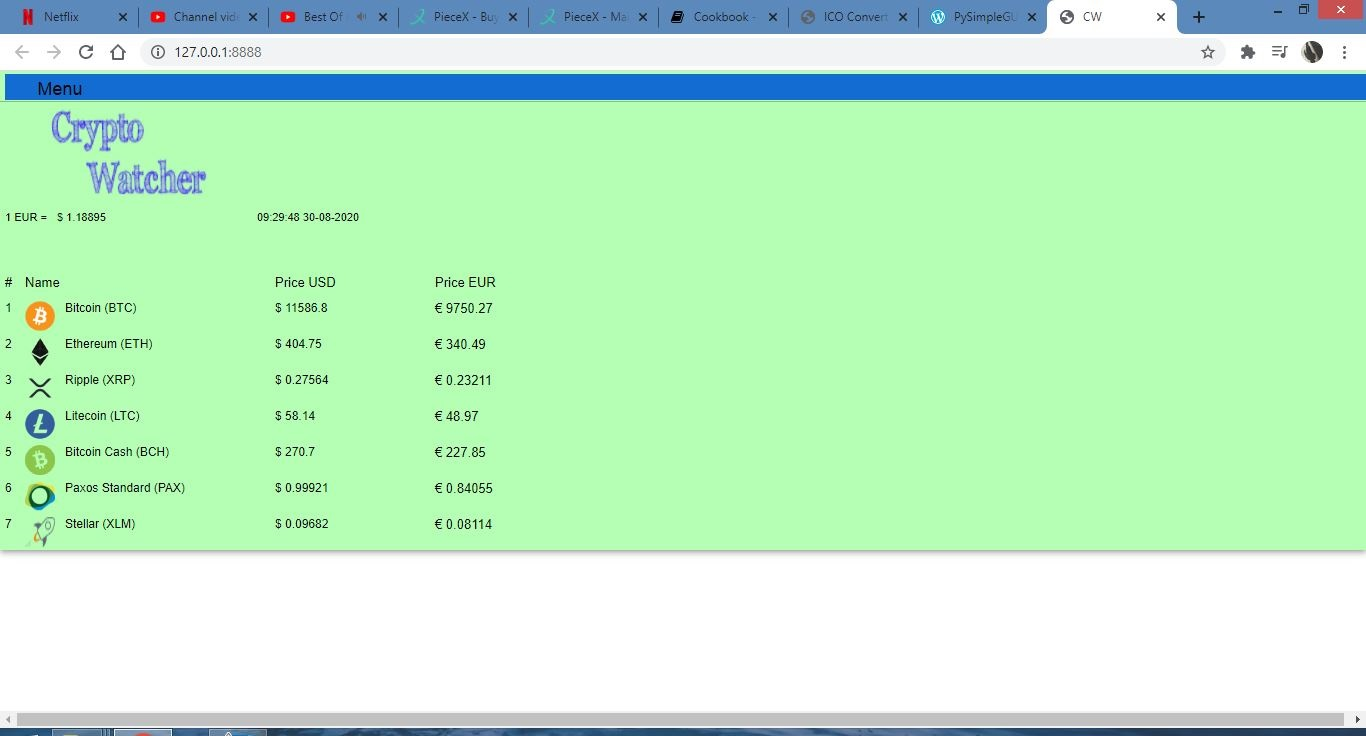
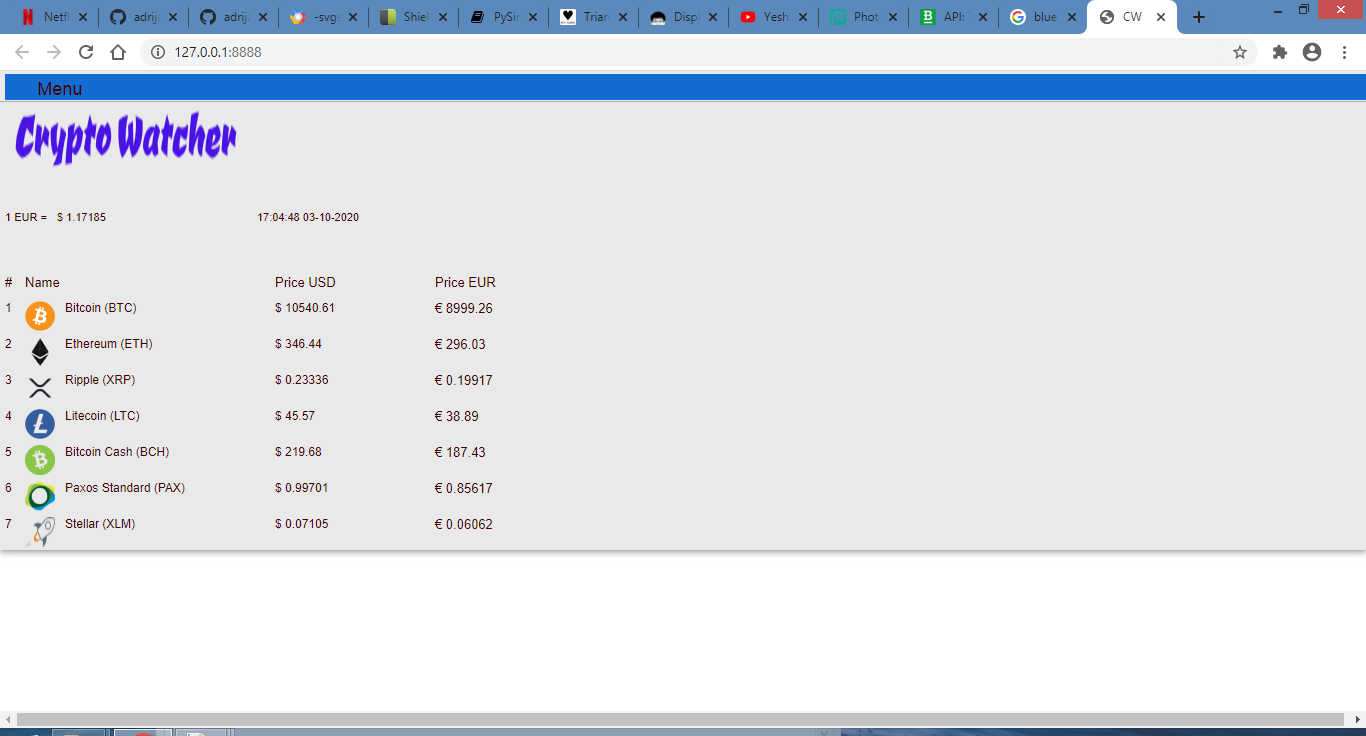
Add files via upload

diff --git a/cw.py b/cw.py
@@ -211,37 +211,47 @@ def create_main_window(settings):
     right_click_menu = ['Unused', ['Settings', 'E&xit']]
     
     layout =   [[sg.Menu(menu_def)],
-                [sg.Image('png/cw.png', size=(250, 100))],
-                [sg.Text('1 EUR  =', font=('Helvetica', 11)), sg.Text('', size=(19,1), font=('Helvetica', 11), key='es'),
+                [sg.Image('png/cw.png', size=(500, 100))],
+                [sg.Text('1 EUR  =', font=('Helvetica', 11)), sg.Text('', size=(8,1), font=('Helvetica', 11), key='es'),
                  sg.Text('', size=(15,1), font=('Helvetica', 11), key='_DATE_'),
                  sg.Button('', key='paypal', size=(12,1), font=('Helvetica', 9), button_color=(sg.theme_background_color(), sg.theme_background_color()),
-                           image_filename='png/paypal.png', image_size=(80, 50), image_subsample=2, border_width=0)],
+                           image_filename='png/paypal.png', image_size=(80, 50), image_subsample=2, border_width=0),
+                 sg.Button('', key='bitcoin', size=(12,1), font=('Helvetica', 9), button_color=(sg.theme_background_color(), sg.theme_background_color()),
+                           image_filename='png/bitcoin.png', image_size=(80, 60), image_subsample=2, border_width=0)],
+                
                 [sg.Text('')],
-                [sg.Text('# ', font=('Helvetica', 13), size=(1,1)), sg.Text('Name', font=('Helvetica', 13), size=(24,1)),
-                 sg.Text(' Price USD', size=(15,1), font=('Helvetica', 13)), sg.Text(' Price EUR', size=(10,1), font=('Helvetica', 13))],
-                [sg.Text('1 ', font=('Helvetica', 12), size=(1,1)), sg.Image('png/bit.png', size=(30, 30)),
-                 sg.Text('Bitcoin (BTC)', font=('Helvetica', 12), size=(20,1)), sg.Text('', size=(15,1), font=('Helvetica', 12),  key='coin'),
-                 sg.Text('', size=(10,1), font=('Helvetica', 13),  key='btceu')],
-                [sg.Text('2 ', font=('Helvetica', 12), size=(1,1)), sg.Image('png/eth.png', size=(30, 30)),
-                 sg.Text('Ethereum (ETH)', font=('Helvetica', 12), size=(20,1)), sg.Text('', size=(15,1), font=('Helvetica', 12),  key='ethe'),
-                 sg.Text('', size=(10,1), font=('Helvetica', 13),  key='eteuro')],
-                [sg.Text('3 ', font=('Helvetica', 12), size=(1,1)), sg.Image('png/xrp.png', size=(30, 30)),
-                 sg.Text('Ripple (XRP)', font=('Helvetica', 12), size=(20,1)), sg.Text('', size=(15,1), font=('Helvetica', 12),  key='xrp'),
-                 sg.Text('', size=(10,1), font=('Helvetica', 13),  key='xrpeu')],
-                [sg.Text('4 ', font=('Helvetica', 12), size=(1,1)), sg.Image('png/lite.png', size=(30, 30)),
-                 sg.Text('Litecoin (LTC)', font=('Helvetica', 12), size=(20,1)), sg.Text('', size=(15,1), font=('Helvetica', 12),  key='ltcusd'),
-                 sg.Text('', size=(10,1), font=('Helvetica', 13),  key='ltceur')],
-                [sg.Text('5 ', font=('Helvetica', 12), size=(1,1)), sg.Image('png/bch.png', size=(30, 30)),
-                 sg.Text('Bitcoin Cash (BCH)', font=('Helvetica', 12), size=(20,1)), sg.Text('', size=(15,1), font=('Helvetica', 12),  key='bcusd'),
-                 sg.Text('', size=(10,1), font=('Helvetica', 13),  key='bceur')],
-                [sg.Text('6 ', font=('Helvetica', 12), size=(1,1)), sg.Image('png/pax.png', size=(30, 30)),
-                 sg.Text('Paxos Standard (PAX)', font=('Helvetica', 12), size=(20,1)), sg.Text('', size=(15,1), font=('Helvetica', 12),  key='paxu'),
-                 sg.Text('', size=(10,1), font=('Helvetica', 13),  key='paxe')],
-                [sg.Text('7 ', font=('Helvetica', 12), size=(1,1)), sg.Image('png/stellar.png', size=(30, 30)),
-                 sg.Text('Stellar (XLM)', font=('Helvetica', 12), size=(20,1)), sg.Text('', size=(15,1), font=('Helvetica', 12),  key='xlmu'),
-                 sg.Text('', size=(10,1), font=('Helvetica', 13),  key='xlme')]]
+                [sg.Text('#', font=('Helvetica', 11, 'bold'), size=(1,1)), sg.Text('Name', font=('Helvetica', 11, 'bold'), size=(24,1)),
+                 sg.Text(' Price USD', size=(15,1), font=('Helvetica', 11, 'bold')), sg.Text(' Price EUR', size=(10,1), font=('Helvetica', 11, 'bold'))],
+                
+                [sg.Text('1', font=('Helvetica', 11, 'bold'), size=(1,1)), sg.Image('png/bit.png', size=(30, 30)),
+                 sg.Text('Bitcoin (BTC)', font=('Helvetica', 12), size=(20,1)), sg.Text('', size=(15,1), font=('Helvetica', 11),  key='coin'),
+                 sg.Text('', size=(10,1), font=('Helvetica', 11),  key='btceu')],
+                
+                [sg.Text('2', font=('Helvetica', 11, 'bold'), size=(1,1)), sg.Image('png/eth.png', size=(30, 30)),
+                 sg.Text('Ethereum (ETH)', font=('Helvetica', 12), size=(20,1)), sg.Text('', size=(15,1), font=('Helvetica', 11),  key='ethe'),
+                 sg.Text('', size=(10,1), font=('Helvetica', 11),  key='eteuro')],
+                
+                [sg.Text('3', font=('Helvetica', 11, 'bold'), size=(1,1)), sg.Image('png/xrp.png', size=(30, 30)),
+                 sg.Text('Ripple (XRP)', font=('Helvetica', 12), size=(20,1)), sg.Text('', size=(15,1), font=('Helvetica', 11),  key='xrp'),
+                 sg.Text('', size=(10,1), font=('Helvetica', 11),  key='xrpeu')],
+                
+                [sg.Text('4', font=('Helvetica', 11, 'bold'), size=(1,1)), sg.Image('png/lite.png', size=(30, 30)),
+                 sg.Text('Litecoin (LTC)', font=('Helvetica', 12), size=(20,1)), sg.Text('', size=(15,1), font=('Helvetica', 11),  key='ltcusd'),
+                 sg.Text('', size=(10,1), font=('Helvetica', 11),  key='ltceur')],
+                
+                [sg.Text('5', font=('Helvetica', 11, 'bold'), size=(1,1)), sg.Image('png/bch.png', size=(30, 30)),
+                 sg.Text('Bitcoin Cash (BCH)', font=('Helvetica', 12), size=(20,1)), sg.Text('', size=(15,1), font=('Helvetica', 11),  key='bcusd'),
+                 sg.Text('', size=(10,1), font=('Helvetica', 11),  key='bceur')],
+                
+                [sg.Text('6', font=('Helvetica', 11, 'bold'), size=(1,1)), sg.Image('png/pax.png', size=(30, 30)),
+                 sg.Text('Paxos Standard (PAX)', font=('Helvetica', 12), size=(20,1)), sg.Text('', size=(15,1), font=('Helvetica', 11),  key='paxu'),
+                 sg.Text('', size=(10,1), font=('Helvetica', 11),  key='paxe')],
+                
+                [sg.Text('7', font=('Helvetica', 11, 'bold'), size=(1,1)), sg.Image('png/stellar.png', size=(30, 30)),
+                 sg.Text('Stellar (XLM)', font=('Helvetica', 12), size=(20,1)), sg.Text('', size=(15,1), font=('Helvetica', 11),  key='xlmu'),
+                 sg.Text('', size=(10,1), font=('Helvetica', 11),  key='xlme')]]
 
-    return sg.Window('CW', layout=layout, font='Helvetica 18', right_click_menu=right_click_menu)
+    return sg.Window('CW', layout=layout, font='Helvetica 9', right_click_menu=right_click_menu)
 
 def main():
     window, settings = None, load_settings(SETTINGS_FILE, DEFAULT_SETTINGS )
@@ -299,7 +309,8 @@ def main():
         elif event == 'paypal':
             webbrowser.open_new_tab("https://www.paypal.com/donate/?cmd=_s-xclick&hosted_button_id=PFB6A6HLAQHC2&source=url")
         
-        
+        elif event == 'bitcoin':
+            webbrowser.open_new_tab("https://commerce.coinbase.com/checkout/149a6235-ec7e-4d3b-a1ae-b08c4f08b4f6")
 
         
     window.Close()   
